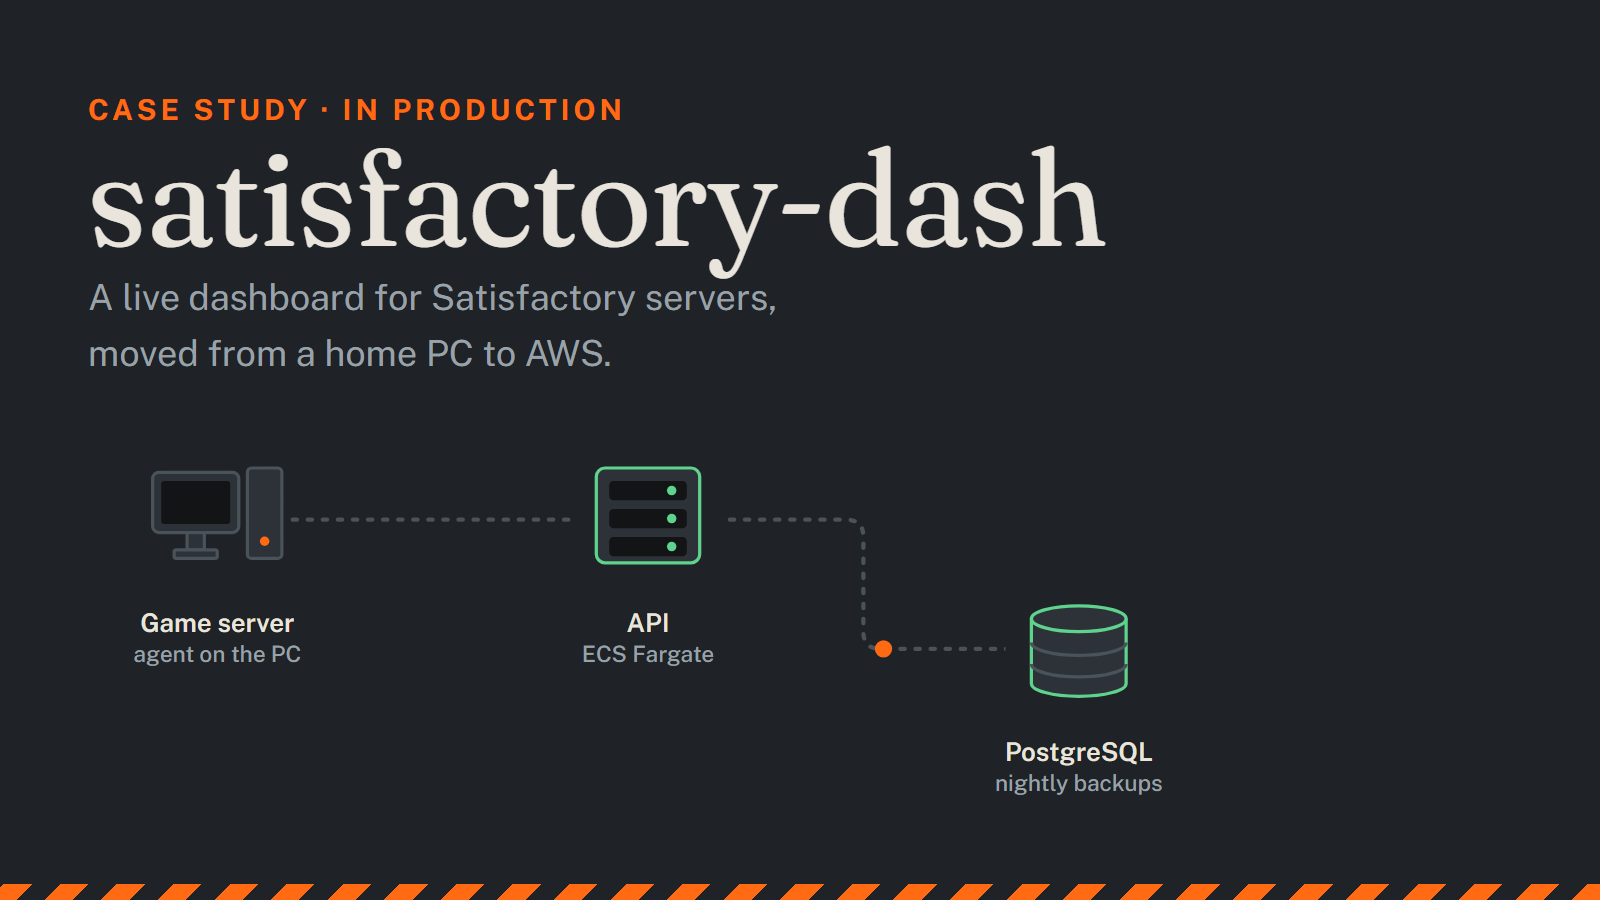
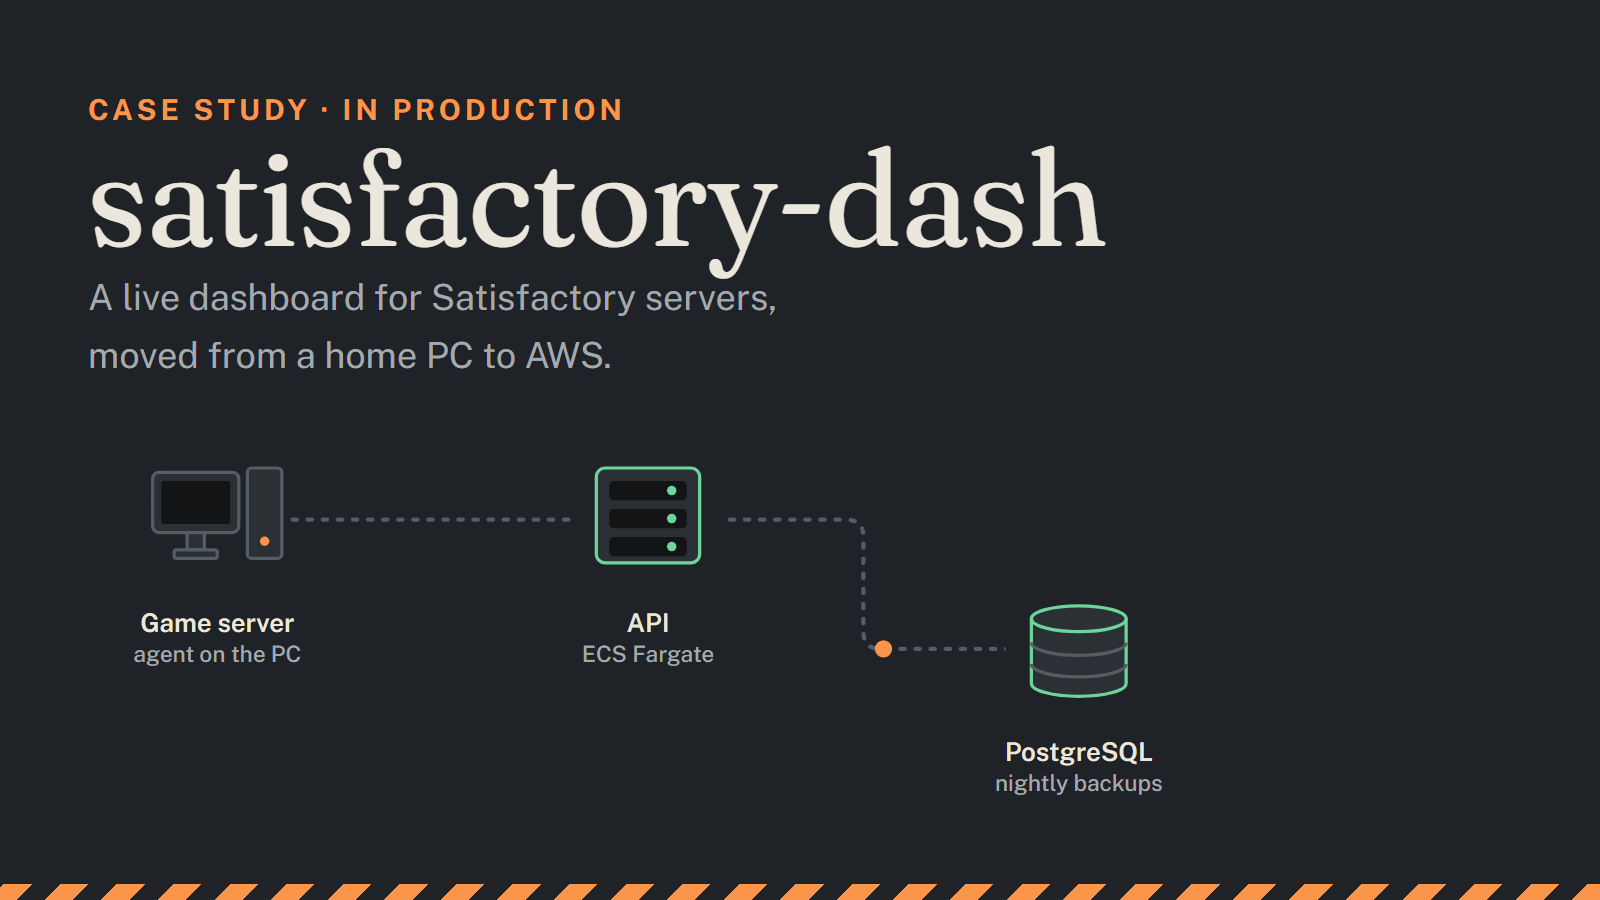
Apply the world palette: FICSIT steel
Warm dark steel with the game's amber-orange route and snapshots (the owner's pick, palette A). The prose marks keep 4.5:1 in both site themes, and the cover stills are re-rendered.

diff --git a/src/worlds/satis/world.css b/src/worlds/satis/world.css
@@ -1,42 +1,43 @@
-/* The satis-manager world. PLACEHOLDER colours until the palette round (plan Task 11).
+/* The satis-manager world: "FICSIT steel" (owner's pick in the palette round, 2026-10-18). Warm dark
+   steel and the game's amber-orange; dark in both site themes.
    Roles are fixed: route, snapshot, error, dropped, backup, one tint per area; red is failure only. */
 .world-satis {
-  --satis-steel: #1f2327;
-  --satis-steel-2: #2c3237;
-  --satis-line: #4a525a;
-  --satis-ink: #e9e5dc;
-  --satis-dim: #9aa1a8;
-  --satis-route: #ff6a13;
-  --satis-snapshot: #ff6a13;
-  --satis-error: #e5534b;
-  --satis-dropped: #ffb07a;
-  --satis-backup: #6a5acd;
-  --satis-ok: #5fd38d;
-  --satis-zone-pc: #272a2e;
-  --satis-zone-pc-rule: #4f565e;
-  --satis-zone-pc-ink: #c3c9cf;
-  --satis-zone-off: #24223a;
-  --satis-zone-off-rule: #48426e;
-  --satis-zone-off-ink: #a99de0;
-  --satis-zone-cf: #2c241d;
-  --satis-zone-cf-rule: #5c4430;
-  --satis-zone-cf-ink: #f0a36a;
-  --satis-zone-aws: #1d2630;
-  --satis-zone-aws-rule: #36495c;
-  --satis-zone-aws-ink: #8fb3d6;
+  --satis-steel: #1f2226;
+  --satis-steel-2: #2b3035;
+  --satis-line: #545c64;
+  --satis-ink: #ece7dc;
+  --satis-dim: #a3a9ae;
+  --satis-route: #fa9549;
+  --satis-snapshot: #fa9549;
+  --satis-error: #ef5350;
+  --satis-dropped: #c9a27a;
+  --satis-backup: #9b8cf0;
+  --satis-ok: #6fd49a;
+  --satis-zone-pc: #26292d;
+  --satis-zone-pc-rule: #4a5157;
+  --satis-zone-pc-ink: #c8cdd2;
+  --satis-zone-off: #262338;
+  --satis-zone-off-rule: #4a4370;
+  --satis-zone-off-ink: #b3a8ec;
+  --satis-zone-cf: #2e2620;
+  --satis-zone-cf-rule: #614a36;
+  --satis-zone-cf-ink: #f2b07c;
+  --satis-zone-aws: #1e2731;
+  --satis-zone-aws-rule: #3a4e63;
+  --satis-zone-aws-ink: #9cc0e2;
   --fig-bg: var(--satis-steel);
   --fig-ink: var(--satis-ink);
   --fig-dim: var(--satis-dim);
   --fig-rule: #5a636b;
-  --fig-bar: #262a2e;
-  --fig-btn: #3a4046;
-  --fig-btn-hover: #4a5158;
+  --fig-bar: #25292d;
+  --fig-btn: #383e44;
+  --fig-btn-hover: #474e55;
   --fig-accent: var(--satis-route);
   --fig-on-accent: #1b1b1b;
-  --fig-done: #2f8a57;
+  --fig-done: #6fd49a;
   --fig-on: var(--satis-ok);
   --fig-off: var(--satis-error);
-  --fig-off-bg: #4a2a26;
+  --fig-off-bg: #4d2a28;
 }
 
 /* Inline words in the prose that name a figure's marks, in the mark's colour. */
@@ -51,7 +52,7 @@
 /* On the page's paper, not the figure's steel: each pair keeps 4.5:1 against --paper in its theme. */
 .world-satis .tok-snapshot,
 .world-satis .tok-route {
-  color: #a33a08;
+  color: #9a4a0a;
 }
 .world-satis .tok-error {
   color: #b0342a;
@@ -65,7 +66,7 @@
 @media (prefers-color-scheme: dark) {
   .world-satis .tok-snapshot,
   .world-satis .tok-route {
-    color: #ff8a4c;
+    color: #fa9549;
   }
   .world-satis .tok-error {
     color: #ff7b72;
@@ -74,7 +75,7 @@
     color: #e0b48a;
   }
   .world-satis .tok-backup {
-    color: #a99de0;
+    color: #b3a8ec;
   }
 }
 
@@ -248,7 +249,7 @@
   color: var(--satis-ok);
 }
 .fig-track .stp.now {
-  background: #4a3324;
+  background: #4a3520;
   color: var(--satis-route);
 }
 .fig-track .conn {
